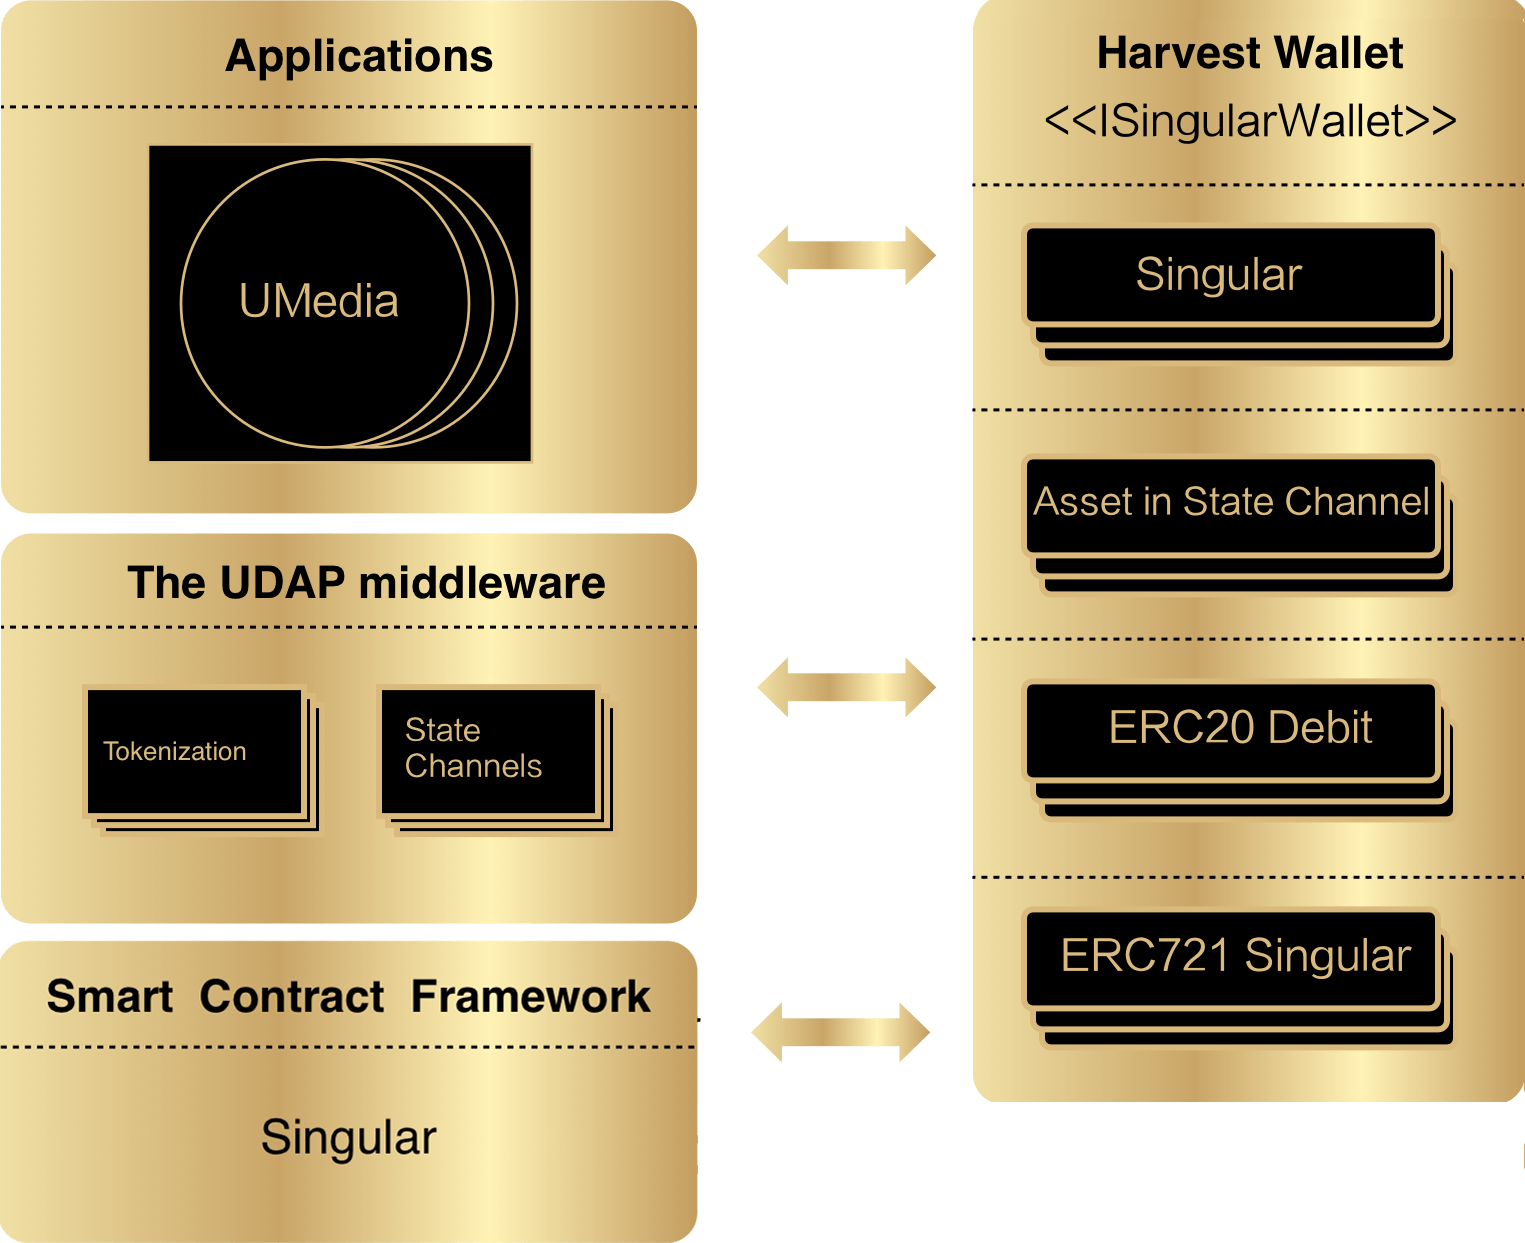
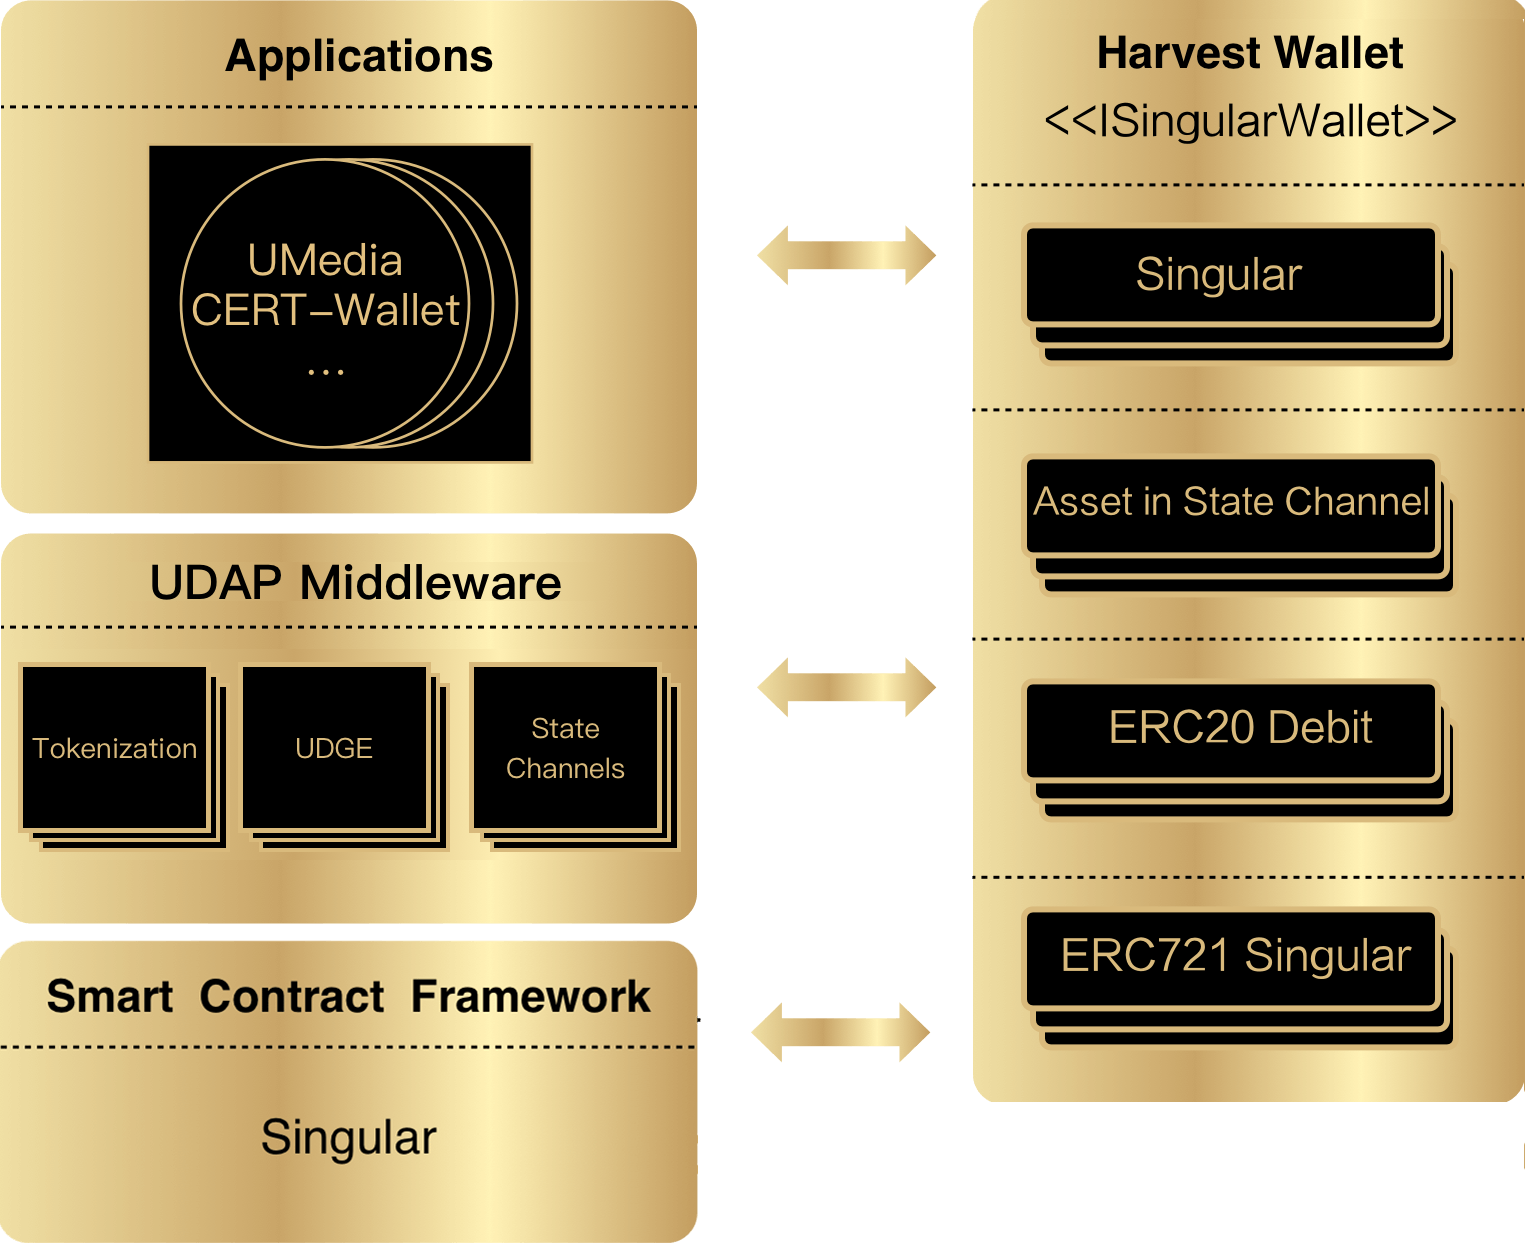
update

Changed region(s): [[0.0, 0.5197, 0.4623, 0.7031], [0.1233, 0.1834, 0.3082, 0.2751], [0.0925, 0.428, 0.4007, 0.4891]]

diff --git a/cn/index.html b/cn/index.html
@@ -52,6 +52,7 @@
                         <a class="" href='/tokensale.html'><strong class="sprites social2"></strong><img src="../img/nav/tokenSale.png" alt="">Tokensale</a>
                     </li> -->
         </ul>
+        <a class="to-en" href="https://www.udap.io/">English</a>
       </div>
 
       <!-- Collect the nav links, forms, and other content for toggling -->
@@ -95,7 +96,7 @@
         <ul class="nav navbar-nav nav-rightCont navbar-right">
           <li class="Nmr">
             <a id="productNav" class="page-scroll stress" href='/demo.html'>
-              <!-- <strong class="sprites social1"></strong> --><img src="../img/nav/useCases.png" alt="">Product <span
+              <!-- <strong class="sprites social1"></strong> --><img src="../img/nav/useCases.png" alt="">产品展示 <span
                 class="ico-new">new</span>
               <ul class="dropdown-product">
                 <li><a href="javascript:;"><small class="arrow"></small></a></li>
@@ -166,7 +167,7 @@
                   <a href="https://github.com/udap/EIP/tree/master/" target="_blank"><i class="icongithub"></i></a></a>
               </li>
               <li id="number2" class="btnlinear">
-                <a href="#two"><i class="iconlink"></i><span>中间件 - UDAP 中间件</span><!-- <i class="iconskip"></i> -->
+                <a href="#two"><i class="iconlink"></i><span>中间件—UDAP中间件/UDGE</span><!-- <i class="iconskip"></i> -->
                   <a href="https://github.com/udap" target="_blank"><i class="icongithub"></i></a></a>
               </li>
               <li id="number3" class="btnlinear">
@@ -1304,9 +1305,9 @@
                   </a>
                 </li>
               </ul>
-              <!-- <div class="index--qr">
-                <img src="../img/index-qr.png" alt="">
-              </div> -->
+              <div class="index--qr">
+                <img src="../img/qrcode.png" alt="">
+              </div>
             </div>
 
           </div>

diff --git a/cn/umedia.html b/cn/umedia.html
@@ -28,13 +28,15 @@
 					<ul class="nav navbarmobile">
 						<li class="Nmr">
 							<a class="stress" href='/cn/demo.html'>
-								<!-- <strong class="sprites social1"></strong> --><img src="../img/nav/useCases.png" alt="">Product
+								<!-- <strong class="sprites social1"></strong> --><img src="../img/nav/useCases.png" alt="">产品展示
 								<span class="ico-new">new</span></a>
 						</li>
 						<!-- <li>
 			   	          <a class="" href='/tokensale.html'> <strong class="sprites social2"></strong><img src="../img/nav/tokenSale.png" alt="">Tokensale</a>
 			   	      </li> -->
 					</ul>
+					<a class="to-en" href="/umedia.html">English</a>
+
 				</div>
 
 				<!-- Collect the nav links, forms, and other content for toggling -->
@@ -67,6 +69,7 @@
 									<li><a href="/cn/wallet.html">Harvest Wallet</a></li>
 									<li><a href="/cn/umedia.html">UMedia</a></li>
 									<li><a href="/zsb-cn.html">CERT-Wallet</a></li>
+									<li><a href="/cn/udge.html">UDGE</a></li>
 								</ul>
 							</a>
 						</li>

diff --git a/umedia.html b/umedia.html
@@ -27,7 +27,9 @@
 			   	          <a class="stress" href='/demo.html'><!-- <strong class="sprites social1"></strong> --><img src="img/nav/useCases.png" alt="">Product <span class="ico-new">new</span></a>
 			   	      </li>
 			   	 
-			   	  </ul>
+						 </ul>
+					<a class="to-en" href="/cn/umedia.html">Chinese</a>
+						 
 			    </div>
 
 			    <!-- Collect the nav links, forms, and other content for toggling -->
@@ -60,7 +62,7 @@
                               <li><a href="/wallet.html">Harvest Wallet</a></li>
 															<li><a href="/umedia.html">UMedia</a></li>
 															<li><a href="/zsb.html">CERT-Wallet</a></li>
-  <li><a href="/udge.html">UDGE</a></li>
+  														<li><a href="/udge.html">UDGE</a></li>
                             </ul>
 		                </a>		                
 		            </li>

diff --git a/cn/wallet.html b/cn/wallet.html
@@ -35,6 +35,8 @@
 			   	          <a class="" href='/tokensale.html'><strong class="sprites social2"></strong><img src="../img/nav/tokenSale.png" alt="">Tokensale</a>
 			   	      </li> -->
 					</ul>
+					<a class="to-en" href="/wallet.html">English</a>
+
 				</div>
 
 				<!-- Collect the nav links, forms, and other content for toggling -->
@@ -67,6 +69,7 @@
 									<li><a href="/cn/wallet.html">Harvest Wallet</a></li>
 									<li><a href="/cn/umedia.html">UMedia</a></li>
 									<li><a href="/zsb-cn.html">CERT-Wallet</a></li>
+									<li><a href="/cn/udge.html">UDGE</a></li>
 								</ul>
 							</a>
 						</li>

diff --git a/cn/demo.html b/cn/demo.html
@@ -35,6 +35,8 @@
 			   	          <a class="" href='/tokensale.html'><strong class="sprites social2"></strong><img src="../img/nav/tokenSale.png" alt="">Tokensale</a>
 			   	      </li> -->
 					</ul>
+					<a class="to-en" href="/demo.html">English</a>
+
 				</div>
 
 				<!-- Collect the nav links, forms, and other content for toggling -->
@@ -67,6 +69,7 @@
 									<li><a href="/cn/wallet.html">Harvest Wallet</a></li>
 									<li><a href="/cn/umedia.html">UMedia</a></li>
 									<li><a href="/zsb-cn.html">CERT-Wallet</a></li>
+									<li><a href="/cn/udge.html">UDGE</a></li>
 								</ul>
 							</a>
 						</li>

diff --git a/cn/udge.html b/cn/udge.html
@@ -37,6 +37,8 @@
 									<span class="ico-new">new</span></a>
 							</li>
 						</ul>
+						<a class="to-en" href="/udge.html">English</a>
+
 					</div>
 
 					<!-- Collect the nav links, forms, and other content for toggling -->
@@ -69,6 +71,7 @@
 										<li><a href="/cn/wallet.html">Harvest Wallet</a></li>
 										<li><a href="/cn/umedia.html">UMedia</a></li>
 										<li><a href="/zsb-cn.html">CERT-Wallet</a></li>
+										<li><a href="/cn/udge.html">UDGE</a></li>
 									</ul>
 								</a>
 							</li>

diff --git a/cn/middleware.html b/cn/middleware.html
@@ -32,6 +32,7 @@
 								<span class="ico-new">new</span></a>
 						</li>
 					</ul>
+					<a class="to-en" href="/middleware.html">English</a>
 				</div>
 
 				<!-- Collect the nav links, forms, and other content for toggling -->
@@ -64,6 +65,7 @@
 									<li><a href="/cn/wallet.html">Harvest Wallet</a></li>
 									<li><a href="/cn/umedia.html">UMedia</a></li>
 									<li><a href="/zsb-cn.html">CERT-Wallet</a></li>
+									<li><a href="/cn/udge.html">UDGE</a></li>
 								</ul>
 							</a>
 						</li>

diff --git a/css/index.css b/css/index.css
@@ -20,6 +20,17 @@ button {
 .navbar-collapse {
   position: relative;
 }
+.index--qr{
+  display: flex;
+  align-items: center;
+  justify-content: center;
+}
+.index--qr img{
+  width: 150px;
+  height: 150px;
+  display: block;
+  max-width: 150px !important;
+}
 .to-en {
   position: absolute;
   right: -125px;
@@ -865,6 +876,10 @@ li.test4 {
   display: inline-block;
   padding-top: 20px;
   margin-left: 2%;
+}
+.navbar-header .to-en{
+  right: 35px;
+  top: 18px;
 }
 .navbarmobile li {
   display: inline-block;

diff --git a/wallet.html b/wallet.html
@@ -27,7 +27,9 @@
 			   	          <a class="stress" href='/demo.html'><!-- <strong class="sprites social1"></strong> --><img src="img/nav/useCases.png" alt="">Product <span class="ico-new">new</span></a>
 			   	      </li>
 			   	 
-			   	  </ul>
+						 </ul>
+					<a class="to-en" href="/cn/wallet.html">Chinese</a>
+						 
 			    </div>
 
 			    <!-- Collect the nav links, forms, and other content for toggling -->

diff --git a/middleware.html b/middleware.html
@@ -27,7 +27,8 @@
 			   	          <a class="stress" href='/demo.html'><!-- <strong class="sprites social1"></strong> --><img src="img/nav/useCases.png" alt="">Product <span class="ico-new">new</span></a>
 			   	      </li>
 			   	 
-			   	  </ul>
+						 </ul>
+						<a class="to-en" href="/cn/middleware.html">Chinese</a>
 			    </div>
 
 			    <!-- Collect the nav links, forms, and other content for toggling -->

diff --git a/zsb/css/main.css b/zsb/css/main.css
@@ -20,7 +20,7 @@ a {
 .zsb__wrap {
   width: 1280px;
   margin: 0 auto;
-  padding-top: 74px;
+  padding-top: 174px;
 }
 .zsb-wrap-content {
   padding-left: 88px;
@@ -361,6 +361,10 @@ a {
   }
   .navbar-header {
     padding: 0 15px;
+  }
+  .navbar-header .to-en{
+    right: 35px;
+    top: 18px;
   }
   .zsbanz-code {
     margin-left: -205.5px;

diff --git a/zsb.html b/zsb.html
@@ -42,6 +42,8 @@
                   alt="" />Tokensale</a>
             </li> -->
           </ul>
+					<a class="to-en" href="/zsb-cn.html">Chinese</a>
+          
         </div>
 
         <!-- Collect the nav links, forms, and other content for toggling -->
